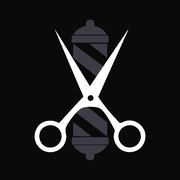
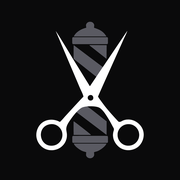
chore(assets): move new brand, service, team and video assets; optimize
git mv into src/assets/{brand,services,team,video}. scripts/optimize-assets.py
trims the logo margin and writes alpha WebP (320/640), service photos (640/
1024), 4:5 barber portraits (400/800), 160/320 face crops, the video poster
(plus a blurred one) and regenerates favicon, touch icon and OG image from
the new logo. The MP4 is served as-is. Old logo and avatars removed.

Claude-Session: https://claude.ai/code/session_01NHKoghEm5eB2m6PAe8twDd

diff --git a/scripts/optimize-assets.py b/scripts/optimize-assets.py
@@ -1,0 +1,137 @@
+#!/usr/bin/env python3
+"""
+Generates the optimized web assets from the source files in src/assets.
+
+  python3 scripts/optimize-assets.py
+
+Sources (kept in the repo, never served directly):
+  brand/logo-{white,black}-source.png   5525x3604 RGBA
+  services/*-source.png                 1024x768
+  team/*-source.png                     1024x1024 and 768x1024
+  video/hero-loop.mp4                   served as-is (poster extracted here)
+
+Never upscales: every output is at most the source size.
+Requires Pillow and ffmpeg.
+"""
+from collections import deque
+from pathlib import Path
+import subprocess
+
+from PIL import Image, ImageFilter
+
+ROOT = Path(__file__).resolve().parent.parent
+A = ROOT / "src" / "assets"
+PUBLIC = ROOT / "public"
+INK_950 = (10, 10, 11)  # --color-ink-950
+
+
+def webp(im: Image.Image, path: Path, quality=82):
+    im.save(path, "WEBP", quality=quality, method=6)
+    print(f"  {path.relative_to(ROOT)} {im.size[0]}x{im.size[1]} {path.stat().st_size // 1024} KB")
+
+
+def resize_w(im: Image.Image, w: int) -> Image.Image:
+    w = min(w, im.width)
+    return im.resize((w, round(im.height * w / im.width)), Image.LANCZOS)
+
+
+# --- Brand: trim the transparent margin, light alpha versions ---------------------------
+print("brand")
+for tone in ("white", "black"):
+    src = Image.open(A / "brand" / f"logo-{tone}-source.png").convert("RGBA")
+    logo = src.crop(src.getbbox())
+    for w in (320, 640):
+        webp(resize_w(logo, w), A / "brand" / f"logo-{tone}-{w}.webp", quality=90)
+
+# --- Services: two widths -------------------------------------------------------------
+print("services")
+for src in sorted((A / "services").glob("*-source.png")):
+    name = src.name.replace("-source.png", "")
+    im = Image.open(src).convert("RGB")
+    for w in (640, 1024):
+        webp(resize_w(im, w), A / "services" / f"{name}-{w}.webp")
+
+# --- Team: 4:5 portraits and face crops -----------------------------------------------
+# Face boxes (x, y, side) measured on the sources; square crops for the booking avatars.
+FACES = {"isaac-fuentes": (231, 40, 520), "leonardo-gomez": (131, 88, 460)}
+print("team")
+for src in sorted((A / "team").glob("*-source.png")):
+    name = src.name.replace("-source.png", "")
+    im = Image.open(src).convert("RGB")
+    # 4:5 portrait, horizontally centered, anchored to the top (faces sit high in both photos).
+    pw = min(im.width, round(im.height * 4 / 5))
+    ph = round(pw * 5 / 4)
+    x0 = (im.width - pw) // 2
+    portrait = im.crop((x0, 0, x0 + pw, ph))
+    for w in (400, 800):
+        webp(resize_w(portrait, w), A / "team" / f"{name}-portrait-{w}.webp")
+    fx, fy, side = FACES[name]
+    face = im.crop((fx, fy, fx + side, fy + side))
+    for s in (160, 320):
+        webp(face.resize((s, s), Image.LANCZOS), A / "team" / f"{name}-face-{s}.webp", quality=85)
+
+# --- Video poster (first frame) and a blurred version for the scrolled backdrop ---------
+print("video")
+frame = A / "video" / "_frame0.png"
+subprocess.run(["ffmpeg", "-v", "error", "-y", "-i", str(A / "video" / "hero-loop.mp4"), "-frames:v", "1", str(frame)], check=True)
+poster = Image.open(frame).convert("RGB")
+webp(poster, A / "video" / "hero-poster.webp", quality=72)
+webp(resize_w(poster, 640), A / "video" / "hero-poster-640.webp", quality=70)
+small = resize_w(poster, 480).filter(ImageFilter.GaussianBlur(10))
+webp(small, A / "video" / "hero-poster-blur.webp", quality=60)
+frame.unlink()
+
+# --- Favicon / touch icon: scissors + pole from the black logo (not redrawn) ------------
+print("icons")
+black = Image.open(A / "brand" / "logo-black-source.png").convert("RGBA")
+black = black.crop(black.getbbox())
+alpha = black.getchannel("A").load()
+rgb = black.convert("RGB").load()
+W, H = black.size
+dark = lambda x, y: alpha[x, y] > 128 and sum(rgb[x, y]) < 200
+# Seed on the scissors pivot (center of the mark), flood the connected black shape.
+cx, cy = int(W * 0.375), int(H * 0.52)
+seed = next(((x, y) for r in range(0, 400) for (x, y) in ((cx + r, cy), (cx - r, cy), (cx, cy + r), (cx, cy - r)) if dark(x, y)))
+seen = bytearray(W * H)
+q = deque([seed])
+seen[seed[1] * W + seed[0]] = 1
+comp = []
+while q:
+    x, y = q.popleft()
+    comp.append((x, y))
+    for dx, dy in ((1, 0), (-1, 0), (0, 1), (0, -1)):
+        nx, ny = x + dx, y + dy
+        if 0 <= nx < W and 0 <= ny < H and not seen[ny * W + nx] and dark(nx, ny):
+            seen[ny * W + nx] = 1
+            q.append((nx, ny))
+xs = [p[0] for p in comp]
+ys = [p[1] for p in comp]
+x0, x1 = min(xs), max(xs)
+pole = [(x, y) for y in range(H) for x in range(x0, x1) if alpha[x, y] > 128 and sum(rgb[x, y]) >= 200]
+py = [p[1] for p in pole] + ys
+y0, y1 = min(py), max(py)
+side = max(x1 - x0, y1 - y0)
+pad = int(side * 0.16)
+S = side + 2 * pad
+mark = Image.new("RGB", (S, S), INK_950)
+m = mark.load()
+ox = pad + (side - (x1 - x0)) // 2 - x0
+oy = pad + (side - (y1 - y0)) // 2 - y0
+for x, y in pole:
+    m[x + ox, y + oy] = (90, 90, 98)
+for x, y in comp:
+    m[x + ox, y + oy] = (255, 255, 255)
+mark = mark.filter(ImageFilter.SMOOTH)
+for size, out in ((32, "favicon-32.png"), (180, "apple-touch-icon.png")):
+    mark.resize((size, size), Image.LANCZOS).save(PUBLIC / out, optimize=True)
+    print(f"  public/{out}")
+
+# --- Open Graph image: white logo on ink-950 -----------------------------------------
+white = Image.open(A / "brand" / "logo-white-source.png").convert("RGBA")
+white = white.crop(white.getbbox())
+og = Image.new("RGB", (1200, 630), INK_950)
+lw = 620
+lg = white.resize((lw, round(white.height * lw / white.width)), Image.LANCZOS)
+og.paste(lg, ((1200 - lw) // 2, (630 - lg.height) // 2), lg)
+og.save(PUBLIC / "og-image.jpg", quality=86, optimize=True)
+print("  public/og-image.jpg")
